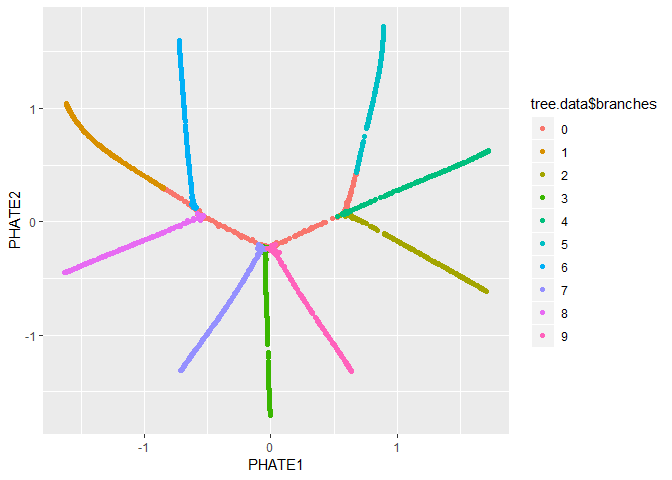
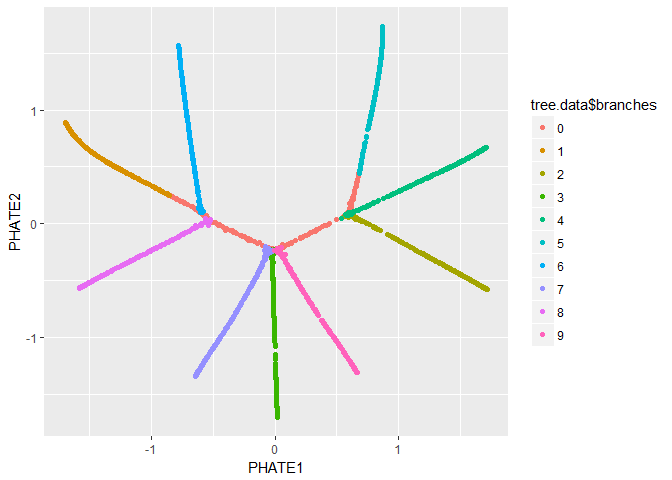
update readme

diff --git a/README.md b/README.md
@@ -1,4 +1,4 @@
-phateR v0.2.7
+phateR v0.2.8
 ================
 
 <!-- README.md is generated from README.Rmd. Please edit that file -->
@@ -43,6 +43,11 @@ For our Python and Matlab implementations, please see
 
 In order to use PHATE in R, you must also install the Python package.
 
+If `python` or `pip` are not installed, you will need to install them.
+We recommend [Miniconda3](https://conda.io/miniconda.html) to install
+Python and `pip` together, or otherwise you can install `pip` from
+<https://pip.pypa.io/en/stable/installing/>.
+
 #### Installation from CRAN and PyPi
 
 Install `phateR` from CRAN by running the following code in R:
@@ -56,8 +61,6 @@ Install `phate` in Python by running the following code from a terminal:
 ``` bash
 pip install --user phate
 ```
-
-If `python` or `pip` are not installed, you will need to install them. We recommend [Miniconda3](https://conda.io/miniconda.html) to install Python and `pip` together, or otherwise you can install `pip` from https://pip.pypa.io/en/stable/installing/.
 
 #### Installation with `devtools` and `reticulate`
 
@@ -83,7 +86,7 @@ The latest source version of PHATE can be accessed by running the
 following in a terminal:
 
 ``` bash
-git clone --recursive git://github.com/SmitaKrishnaswamy/PHATE.git
+git clone --recursive git://github.com/KrishnaswamyLab/PHATE.git
 cd PHATE/phateR
 R CMD INSTALL
 cd ../Python
@@ -113,7 +116,6 @@ PCA.
 ``` r
 library(phateR)
 #> Loading required package: Matrix
-#> Warning: package 'Matrix' was built under R version 3.4.4
 data(tree.data)
 plot(prcomp(tree.data$data)$x, col=tree.data$branches)
 ```
@@ -145,17 +147,17 @@ plot(tree.phate, col = tree.data$branches)
 
 Good news\! Our branches separate nicely. However, most of the
 interesting activity seems to be concentrated into one region of the
-plot - in this case we should try the square root potential instead. We
-can also try increasing `t` to make the structure a little clearer - in
-this case, because synthetic data in unusually structured, we can use a
-very large value, like 120, but in biological data the automatic `t`
-selection is generally very close to ideal. Note here that if we pass
-our previous result in with the argument `init`, we won’t have to
-recompute the diffusion operator.
+plot - in this case we should try the square root potential instead by
+using `gamma=0`. We can also try increasing `t` to make the structure a
+little clearer - in this case, because synthetic data in unusually
+structured, we can use a very large value, like 120, but in biological
+data the automatic `t` selection is generally very close to ideal. Note
+here that if we pass our previous result in with the argument `init`, we
+won’t have to recompute the diffusion operator.
 
 ``` r
 # runs phate with different parameters
-tree.phate <- phate(tree.data$data, potential.method='sqrt', t=120, init=tree.phate)
+tree.phate <- phate(tree.data$data, gamma=0, t=120, init=tree.phate)
 # plot embedding
 palette(rainbow(10))
 plot(tree.phate, col = tree.data$branches)
